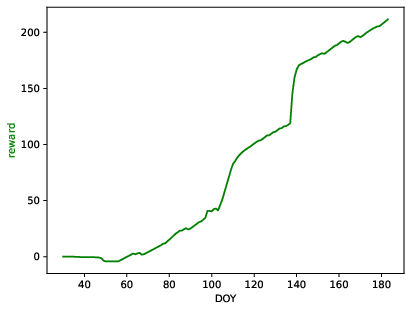
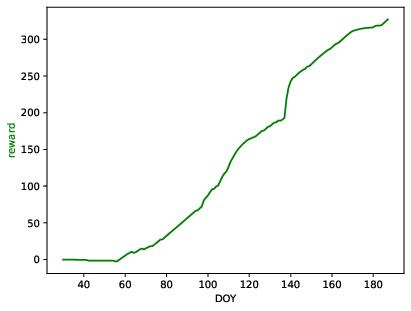
readme update ; grnwt factor correction

diff --git a/gym_dssat_pdi_tests/run_env.py b/gym_dssat_pdi_tests/run_env.py
@@ -7,12 +7,9 @@ import pathlib
 faulthandler.enable()
 from gym_dssat_pdi.envs.utils import utils
 import os
-import gc
 
-import pdb
 import numpy as np
 from copy import deepcopy
-import time
 from pympler.tracker import SummaryTracker
 
 from pprint import pprint
@@ -143,6 +140,7 @@ if __name__ == '__main__':
             os.remove(file.path)
     except:
         pass
+    utils.make_folder('./render')
     cwd = os.path.dirname(os.path.realpath(__file__))
     env_args = {
         'run_dssat_location': f'{pathlib.Path.home()}/dssat_pdi/run_dssat',
@@ -160,7 +158,7 @@ if __name__ == '__main__':
     if try_interact:
         try:
             env = gym.make('gym_dssat_pdi:GymDssatPdi-v0', **env_args)
-            env.get_env_info()
+            # env.get_env_info()
             interact_with_env(env, verbose=verbose)
             env.render(type='ts',
                        feature_name_1='nstres',

diff --git a/gym-dssat-pdi/gym_dssat_pdi/envs/utils/utils.py b/gym-dssat-pdi/gym_dssat_pdi/envs/utils/utils.py
@@ -102,7 +102,7 @@ def transpose_dicts(dict_list):
 
 def _post_treat_state(state):
     try:
-        state['grnwt'] *= state['pltpop']
+        state['grnwt'] *= state['pltpop'] * 10
         state['nstres'] = 1 - state['nstres']
         state['swfac'] = 1 - state['swfac']
         state['pcngrn'] /= 100

diff --git a/README.md b/README.md
@@ -19,8 +19,8 @@ gym-DSSAT uses by default the UFGA8201 maize experiment from the University of F
 #### Action/State spaces
 
 The environment comes with 3 modes:
-+ nitrogen fertilization only (continuous quantity): ```mode=='fertilization'```
-+ irrigation only (continuous quantity): ```mode=='irrigation'```
++ nitrogen fertilization only (continuous quantity): ```mode=='fertilization'``` ➡ nitrogen fertilizer quantity (kg/ha)
++ irrigation only (continuous quantity): ```mode=='irrigation'``` ➡ water quantity (mm)
 + both nitrogen fertilization and irrigation (both continuous quantities): ```mode=='all'```
 
 The action/state spaces depend on each mode and are detailed in [gym environment's yaml configuration file](https://gitlab.inria.fr/rgautron/gym_dssat_pdi/-/blob/stable/gym-dssat-pdi/gym_dssat_pdi/envs/configs/env_config.yml). State variables can be continuous, discrete and arrays of arbitrary shapes. Actions are continuous. By default, the observed state is given as a dictionnary as show below:
@@ -77,7 +77,6 @@ env_args = {
     # 'mode': 'irrigation',  # you can choose one of those 3 modes
     # 'mode': 'fertilization',
     'mode': 'all',
-    'experiment_number': 3,
     'seed': 123456,
     'random_weather': True,  # if you want stochastic weather
 }
@@ -120,12 +119,13 @@ Once you're done, **terminate gym-DSSAT**:
 ```
 env.close()
 ```
-A preferred usage is:
+The preferred usage is:
 ```python
 try:
-  env = ...
+  env = gym.make(...)
   ...
-  env.step () ...
+  env.step(action_dict=...)
+  ...
 finally:
   env.close()
 ```
@@ -136,8 +136,8 @@ gym-DSSAT provides a visualization interface both for raw state variables or rew
 You can call:
 ```python
 env.render(type='ts',  # time series mode
-           feature_name_1='nstres',  # mandatory first raw state variable
-           feature_name_2='grnwt')  # optional second raw state variable
+           feature_name_1='nstres',  # mandatory first raw state variable, here the nitrogen stress factor (unitless)
+           feature_name_2='grnwt')  # optional second raw state variable, here the grain weight (kg/ha)
 ```
 ![plot](./readme_figures/nstresGrnwt.png)
 
@@ -196,7 +196,11 @@ press "return" to continue
 You can check [more examples](https://gitlab.inria.fr/rgautron/gym_dssat_pdi/-/blob/stable/gym_dssat_pdi_tests/run_env.py), including how to use gym-DSSAT in a multiprocessing context, using the ```env.reset_hard()``` feature.
 
 ## Installing gym-DSSAT
-Here you will find how to install in the order the various components of gym-DSSAT.
+Here you will find how to install in the order the various components of gym-DSSAT. The first step is to clone this repository:
+
+```shell
+git clone https://gitlab.inria.fr/rgautron/gym_dssat_pdi.git
+```
 
 ### 0. Dependencies
 #### i. CMake
@@ -219,8 +223,8 @@ cd openmpi-4.1.1
 <...lots of output...>
 sudo make all install
 ```
-#### iii. gfortran
-To install [gfortran](https://gcc.gnu.org/wiki/GFortran), you can use ```sudo apt-get install gfortran```
+#### iii. A fortran compiler
+For instance, to install [gfortran](https://gcc.gnu.org/wiki/GFortran), you can use ```sudo apt-get install gfortran```
 
 #### iv. Python
 To install [Python](https://www.python.org/) (>=3.6), you can use ```sudo apt install python3.9```. The following Python package are requires:
@@ -228,11 +232,12 @@ To install [Python](https://www.python.org/) (>=3.6), you can use ```sudo apt in
 + numpy: ```pip install numpy```
 + jinja2: ```pip install Jinja2```
 + gym: ```pip install gym```
++ zmq: ```pip install pyzmq```
 
 ### 1. PDI Data Interface (PDI)
-In order to install the [PDI](https://pdi.julien-bigot.fr/master/), you can check the [official instruction](https://pdi.julien-bigot.fr/master/Installation.html) but **be careful to correctly set cmake flags as shown below**
+In order to install the [PDI](https://pdi.julien-bigot.fr/master/), you can check the [official instructions](https://pdi.julien-bigot.fr/master/Installation.html) but **be careful to correctly set cmake flags as shown below**
 
-Recommended installation directories are ```/opt/pdi``` or ```${HOME}/.pdi``` ; if possible avoid ```/usr/local/```. In the following we assume you installed PDI in ```/opt/pdi```.
+Recommended installation directories are ```/opt/pdi``` or ```${HOME}/.pdi``` ; if possible avoid ```/usr/local/```. In the following we assume to be installed PDI in ```/opt/pdi```.
 
 ```shell
 wget https://gitlab.maisondelasimulation.fr/pdidev/pdi/-/archive/1.3.1/pdi-1.3.1.tar.bz2
@@ -265,3 +270,11 @@ From the root of this repository:
 cd gym-dssat-pdi
 pip install -e .
 ```
+
+## About this project
+#### Authors
+Romain Gautron
+Emilio Padrón González
+
+#### Acknowledgements
+We acknowledge the DSSAT team, especially Gerrit Hoogenboom and Cheryl Porter. Thanks to the PDI team, especially to Julien Bigot. We acknowledge the Consultative Group for International Agricultural Research (CGIAR), the French Agricultural Research Centre for International Development (CIRAD) and the French Institute for Research in Computer Science and Automation (Inria), in particular the SCOOL team, for their support.
